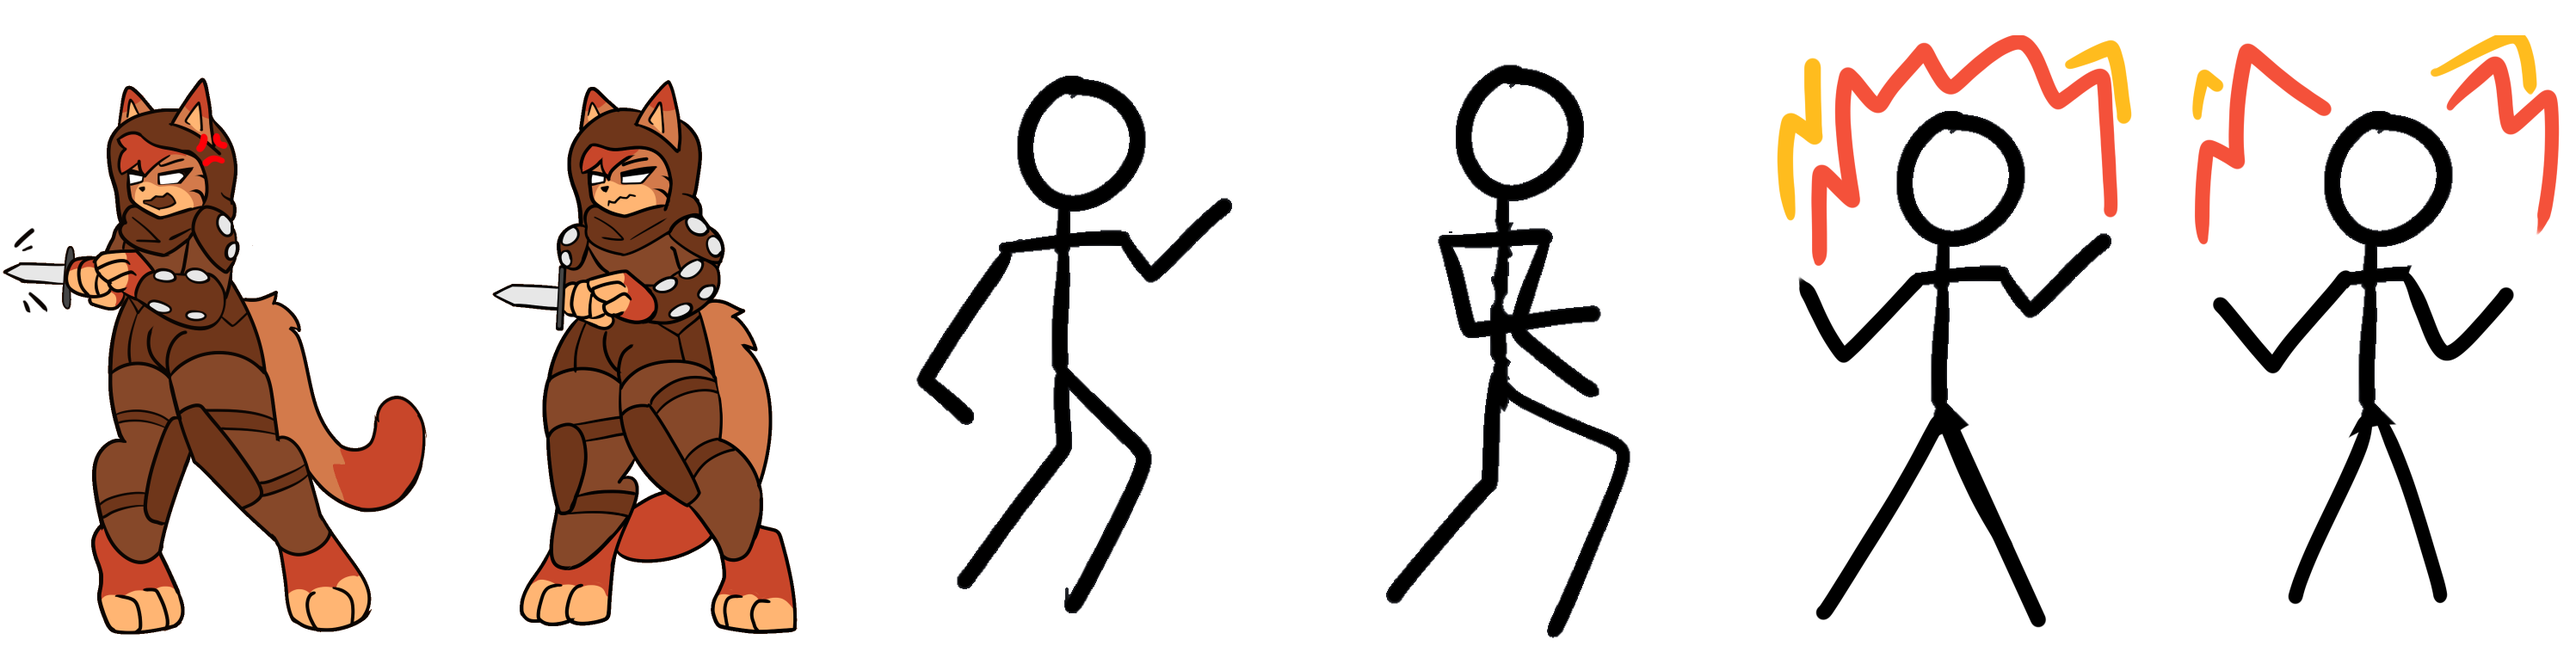
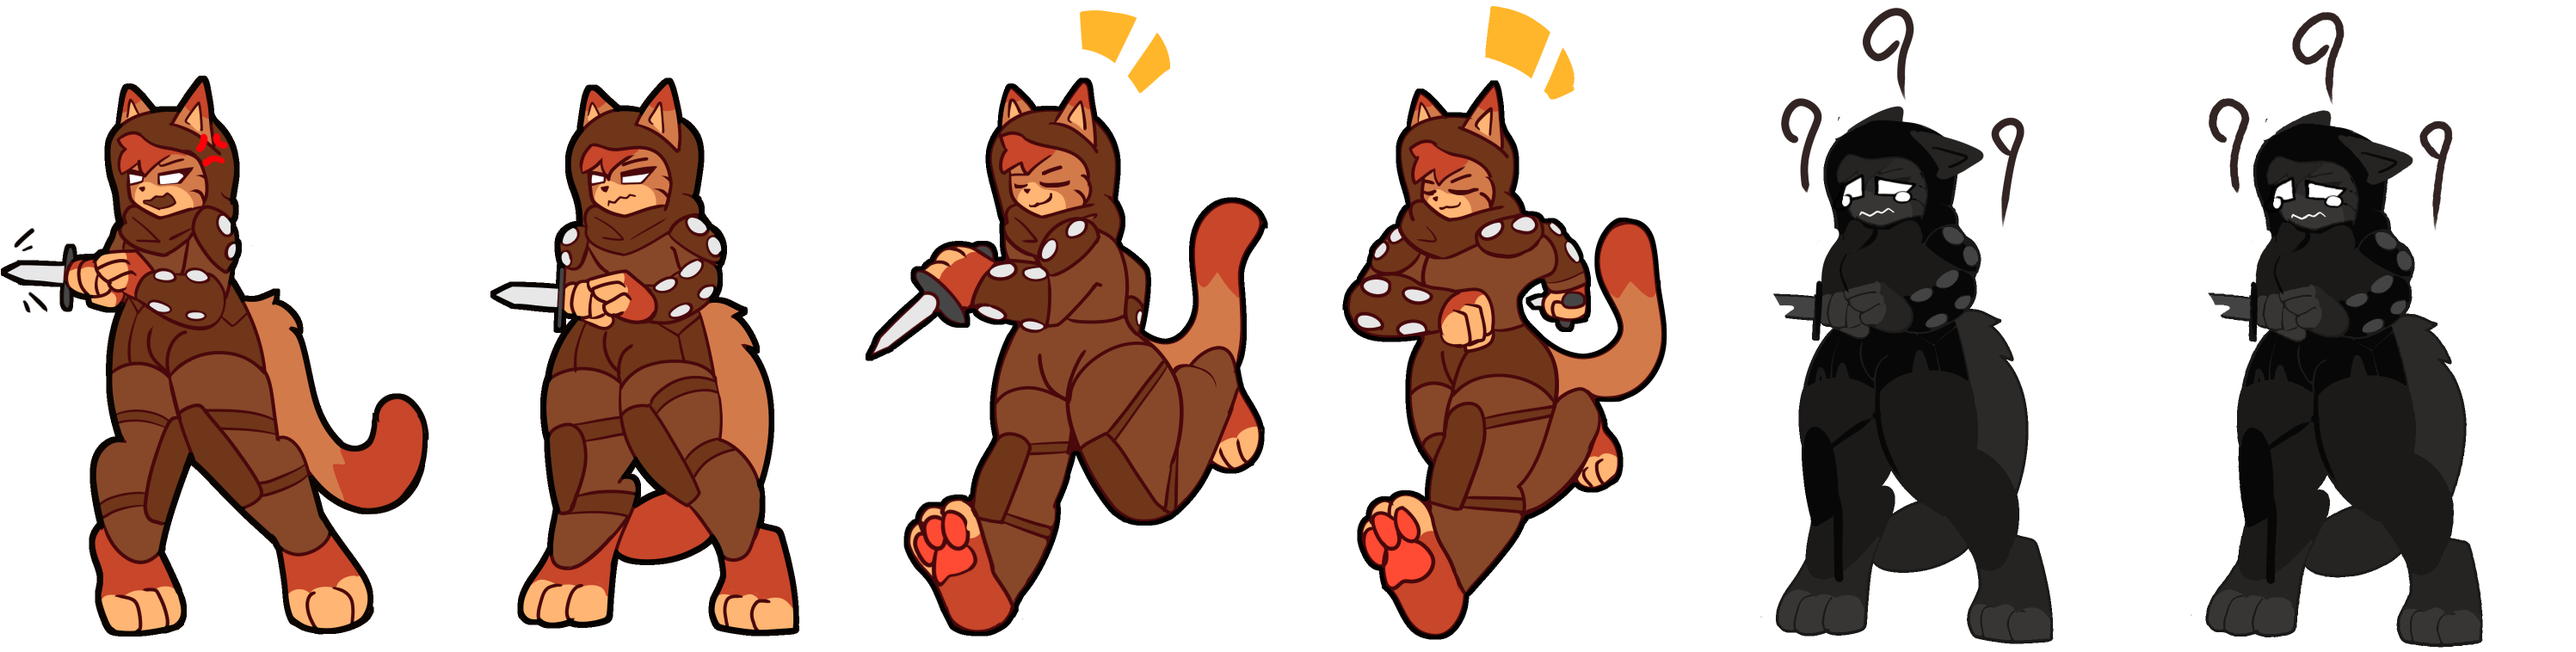
Updated Spritesheet
Characters final spritesheet, includes runing away and burn sprites

diff --git a/src/assets/assets.ts b/src/assets/assets.ts
@@ -35,7 +35,7 @@ const spritesheets: SpriteSheet[] = [
 	spritesheet("characters/kobold_mage", "kobold_mage", 499, 758),
 	spritesheet("characters/mouse", "mouse", 499, 758),
 	spritesheet("characters/wolf", "wolf", 499, 758),
-	spritesheet("characters/bird", "bird", 499, 758),
+	
 ];
 
 /* Audios */
